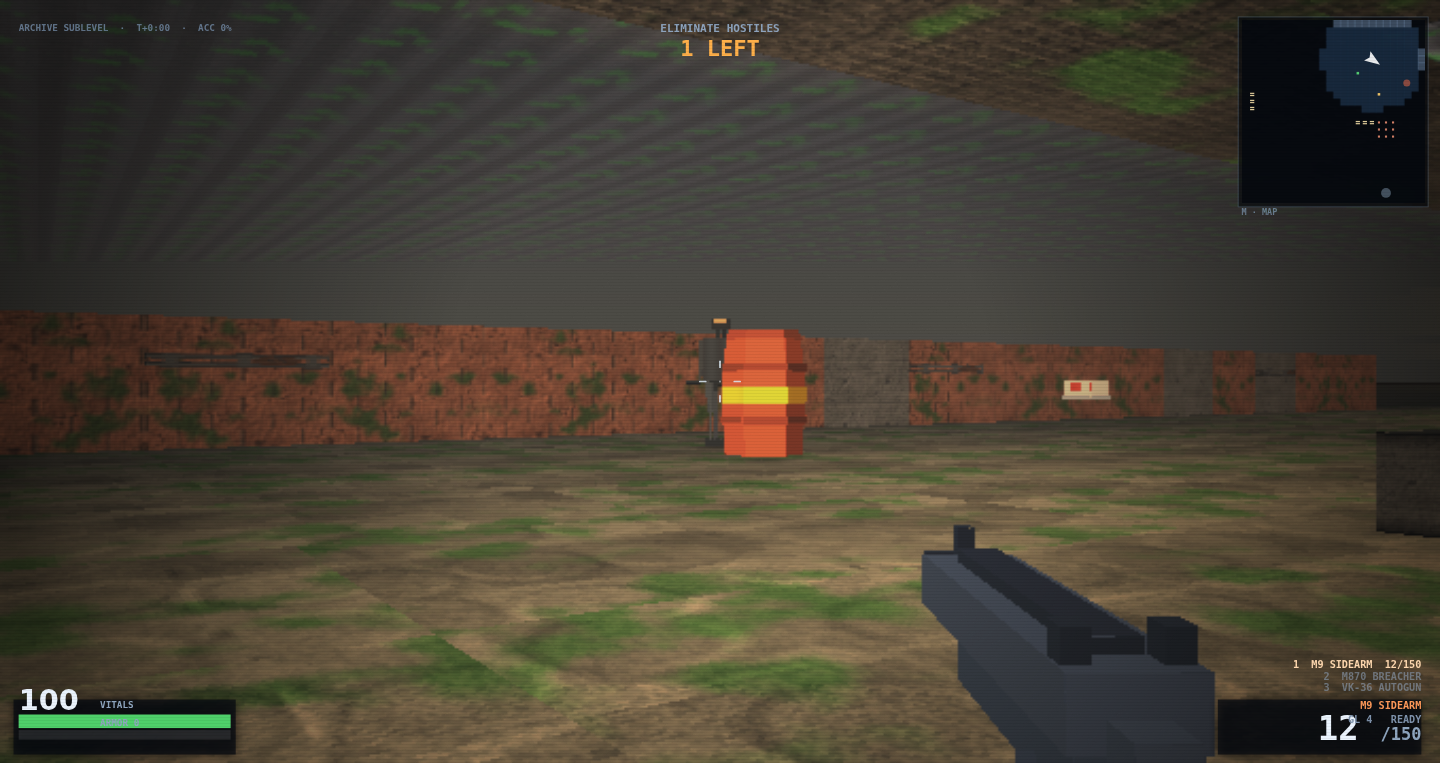
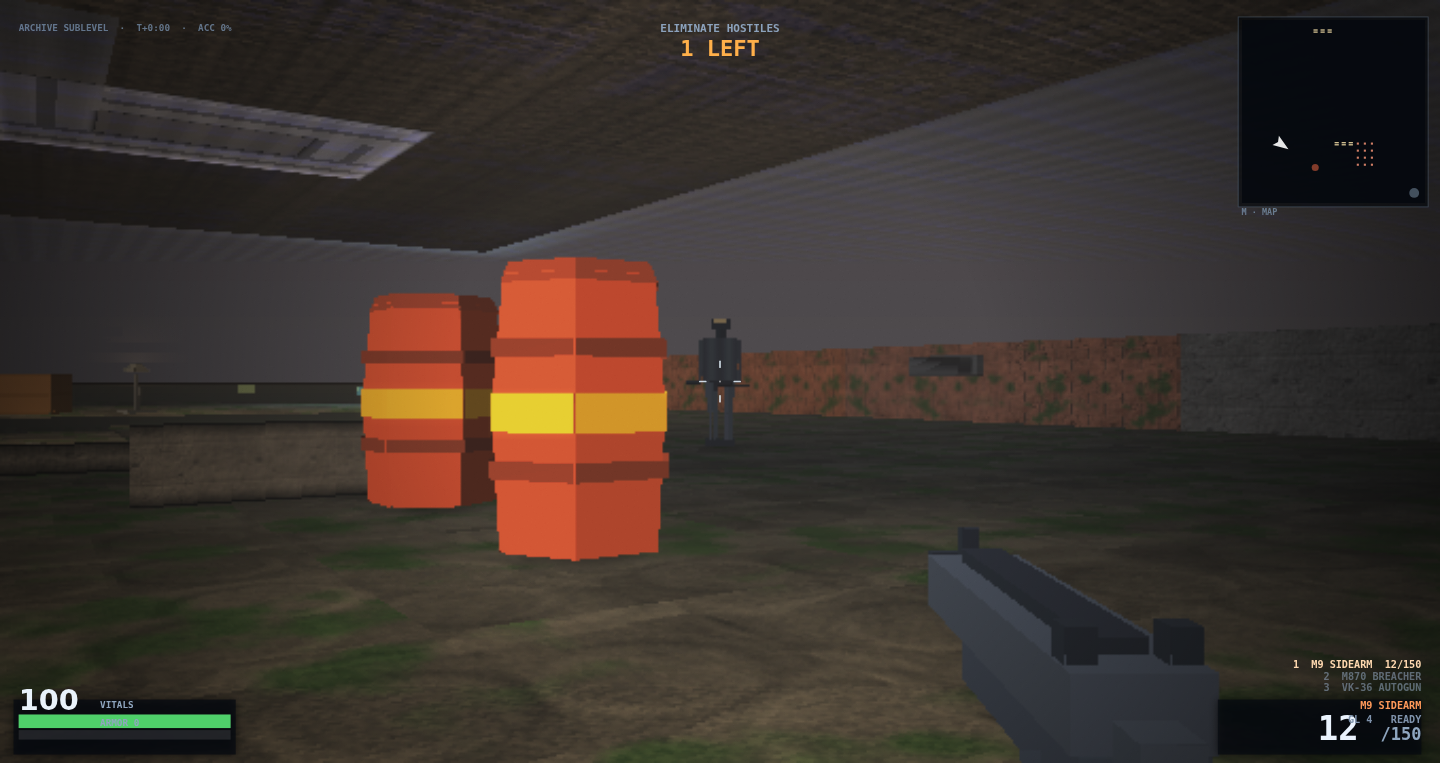
docs: three README frames now come off the build that ships (#468)
The spawn seat, the posed grunt and THE STACK's arrival seat were drawn at builds whose
near-field ground fetch predates the anisotropic tap pair that merged as #467, so the deck the
README shows was the deck that no longer ships. Re-taken off the deployed Pages page at
c3e3104 - index.html and all eleven js blobs md5-compared against origin/main before the
shutter - one page load, one boot, seed 60, 44100 Hz.

What a player sees differently: the same three rooms, with the near ground now fetched at the
1-2 texel footprint instead of a single tap, and one visible consequence - the grunt's cell on
today's ARCHIVE deal reads MAP.light 0.013, so he is lit by his own lamp-facing faces against
nearly dark air rather than by the room.

Digits moved by the bytes: decode means 63.98 / 63.93 / 64.98 -> 51.68 / 51.60 / 66.43. ARCHIVE's
deal also moved with the build (layout 3105224175 -> 2265108899), so the spawn seat is now
(5.5, 17.5) and the posed grunt lands at (10.45, 20.89); THE STACK re-signs 1699332737 ->
972763321 because #421 moved a slab's underside and layoutSig hashes MAP.fz.

Both ABATOIR CORE frames stay at dac241d on purpose: recap gates one (seed, level, sampleRate)
to one layout, so re-taking only one of a level's two rows would make the pair claim two worlds.
The other three ce9d39d frames stay too - their captions' coordinates are features today's deal
puts elsewhere, which is a caption rewrite and is recorded as STALE-BUILD, not cropped out.
[…]

diff --git a/README.md b/README.md
@@ -51,14 +51,16 @@ a byte claim written here is false by the next merge (#395). What *changed* betw
 in the PR that moved it, not here.
 
 `node tools/recap.js check` decodes the eight PNGs and fails if any number below disagrees with the
-bytes, so a caption cannot drift from its frame. The eight frames decode to **63.98 / 20.87 / 63.93 / 47.81 / 68.50 / 64.98 / 64.56 / 72.01** mean luma
+bytes, so a caption cannot drift from its frame. The eight frames decode to **51.68 / 20.87 / 51.60 / 47.81 / 68.50 / 66.43 / 64.56 / 72.01** mean luma
 (`0.2126 R + 0.7152 G + 0.0722 B`, the rule `DEV.lum` uses), in the order they appear below. A dark
 row below means a row whose own mean luma is under 24 — the threshold the tool measures at, whatever
 number a sentence labels.
 
-Three of these eight frames are still drawn at build `ce9d39d`, two at the build that was deployed when
-their pixels were taken, one at `a61b540` and two at `dac241d`; the build that drew each one is named per
-file in `provenance.json`, and the deployed page moves past them all. Treat every frame as what its own
+Three of these eight frames — the spawn seat, the posed grunt and THE STACK's arrival seat — were re-taken
+today off the deployed page at build `c3e3104`, with all twelve served blobs md5-compared against that tree
+before the shutter. Three are still drawn at build `ce9d39d` and both ABATOIR CORE frames at `dac241d`, where
+they stay because the two rows of one level have to name one deal and only one of them was re-taken; the
+build that drew each frame is named per file in `provenance.json`, and the deployed page moves past them all. Treat every frame as what its own
 caption's build drew, not as a screenshot of today's deploy (#395, #431). Opening a frame's recorded URL does
 re-deal that frame's level — the page installs the seeded dice itself at `?dev=1&seed=` (`js/90_dev.js:26`) —
 so a re-take is one page load with one boot, never a second `DEV.boot()` inside the same load
@@ -74,12 +76,15 @@ labelled stale-by-build.
 
 ![the spawn seat on a lit datum floor](docs/screens/level0-spawn.png)
 
-The spawn seat (18.5, 5.5) on a lit datum floor: **0 of 763 rows average below luminance 24** — no dark
-band left to count, thirds 51.5 / 64.2 / 76.3. This is the exposure the tonal gates are tuned against.
-The light is the cell's own ambient (`MAP.light` 0.831 at (18,5)); no lamp is in frame, and the drum
-centre-frame is a red barrel 5 m out. The seat's own column carries four units of authored air above
-it, so this is the first place the ground pass's per-row ceiling term is allowed to do anything — it is
-exactly 0 while a plane solves within 3.0 of the eye, which is every pixel of a one-unit level.
+The spawn seat (5.5, 17.5) on a lit datum floor — the seat this build's own deal puts you in, read off the
+page rather than typed — **0 of 763 rows average below luminance 24**, no dark band left to count, mean
+51.68, thirds 43.6 / 59.6 / 51.8. This is the exposure the tonal gates are tuned against. The light is the
+cell's own ambient (`MAP.light` 0.726 at (5,17)); no lamp is in frame. The seat's own column carries four
+units of authored air above it (`MAP.cz` 16, the ceiling solving at 4.00 over `floor 0.00`), so this is the
+first place the ground pass's per-row ceiling term is allowed to do anything — it is exactly 0 while a plane
+solves within 3.0 of the eye. The deck under the crosshair is the near field #467 changed: at this range the
+footprint is 1-2 texels and the fetch is the anisotropic tap pair, which is why the four streak counts
+`view.js mip` prints for the sectors fell when that pair landed.
 
 ![four risers up to the raised band, and the black air above them](docs/screens/level0-facing-wall.png)
 
@@ -96,9 +101,10 @@ room by room, and a stairwell is not a room: no level has an overlook you can lo
 
 One grunt 6 m out on the camera's own band — the spawn seat, then `DEV.clear()` and
 `DEV.spawn('grunt', 1, 6)` (`kind, n, dist`), which is why the HUD reads **1 LEFT**. He lands at
-(23.45, 8.89) on `MAP.fz` 0 like the camera, in a cell reading `MAP.light` 0.422, with `e.anim` pinned
-to **0**: rest pose, not a stride (`view.js anim` gates motion). **0 of 763 rows average below luminance 24**
-here, thirds 51.4 / 64.1 / 76.3. Bodies are meshes from `js/13_mesh.js`; whether one
+(10.45, 20.89) on `MAP.fz` 0 like the camera, in a cell reading `MAP.light` 0.013 — nearly dark air, so what
+reads him out is the lamp light on his own faces — with `e.anim` pinned to **0**: rest pose, not a stride
+(`view.js anim` gates motion). **0 of 763 rows average below luminance 24** here, mean 51.60, thirds
+43.5 / 59.4 / 51.8. Bodies are meshes from `js/13_mesh.js`; whether one
 reads against the paint behind it at combat range is what `node tools/view.js contrast` prices (#416).
 
 ![the pit lip from 2.5 m out, lit by a lamp standing in the pit](docs/screens/level0-props.png)
@@ -121,16 +127,16 @@ refuses from above.
 ![the authored two-storey level from its own spawn seat](docs/screens/level3-stack.png)
 
 **THE STACK**, the hand-authored level, from its spawn seat: (1.5, 2.5) on the datum, heading 0.60, 4
-hostiles left, and **0 of 763 rows average below luminance 24** (mean 64.98, thirds 45.6 / 74.2 / 75.2;
-at the tool's other bar, 47 rows under 34, longest run 42 from row 260). The seat's own cell carries a
+hostiles left, and **0 of 763 rows average below luminance 24** (mean 66.43, thirds 46.6 / 76.1 / 76.7;
+at the tool's other bar, 42 rows under 34, longest run 42 from row 260). The seat's own cell carries a
 ceiling at **1.00** — you are under the slab — and seven cells along the heading the plan opens into an
 atrium whose ceiling solves at **4.00** over `floor 0.00`. What crosses the middle of the frame is the
 wall of the room the seat opens into, with the atrium's lit floor visible above its top edge: a surface
 you cannot shoot at, over a wall you can. That edge is carried by the surfaces themselves rather than by
 the light on them — rectified ashlar blockwork with incised joints and tie holes over flagstone and moss
 — so a lip reads as a lip at any distance, in bright light or dim, and not only where a lamp happens to
-graze it (#428). The vault is still the darkest large surface in the frame: its band runs 45.6 against
-the deck's 75.2, and this is the first frame of this seat where that gap is the *surfaces* talking — the
+graze it (#428). The vault is still the darkest large surface in the frame: its band runs 46.6 against
+the deck's 76.7, and this is the first frame of this seat where that gap is the *surfaces* talking — the
 blockwork and the flagstone are different materials, and the deck no longer out-lights the roof over it
 because the finale's floor stops burning past the picture it is lit for (#369). The stepped glyphs on
 the minimap are the staircase that gets you up there. Hand-authoring removes the seed excuse — this plan
@@ -150,7 +156,6 @@ thirds 48.2 / 73.6 / 71.9). The top third of this frame reads **48.2** and the b
 split is the whole story of the ceiling: the slab is the largest surface the player sees and the darkest
 one on it. `tools/view.js surface` puts this level's ceiling at **47 % of the frame** against a floor at
 38 %, and the deck it looks down on is lit 1.9x brighter than the slab it looks up at.
-
 ![the same seat turned to the fitting hung over the entrance, 3 m ahead](docs/screens/level2-abatoir-ceiling.png)
 
 The same seat on the same deal, turned 0.556 rad right and pitched up 25 px, which is where this deal
